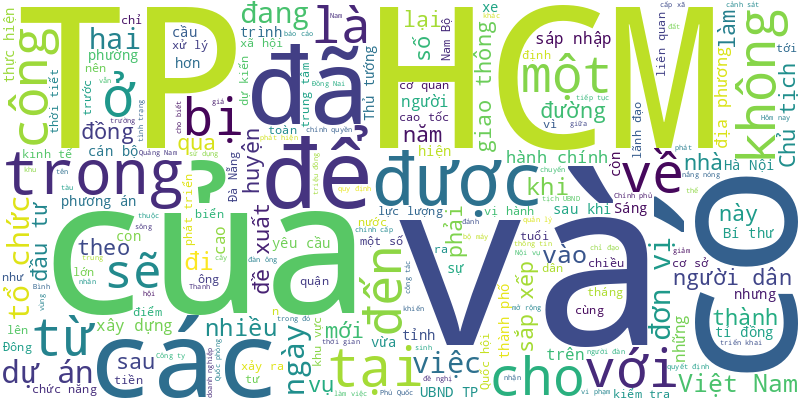
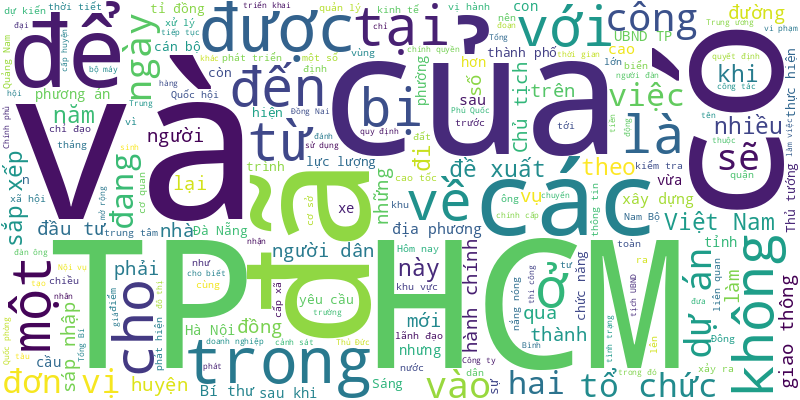
🍀 = 80%

diff --git a/README.md b/README.md
@@ -1,6 +1,18 @@
 # Tuoi Tre RSS 
 
 ## Giáo dục 
+- Theo kế hoạch tuyển sinh đầu cấp năm học 2025-2026 của TP.HCM, yếu tố quan trọng nhất là nơi ở hiện tại.
+- Sáng 30-3, Ủy ban nhân dân TP.HCM đã ban hành kế hoạch tuyển sinh lớp 10 năm học 2025-2026.
+- Sáng nay 30-3, Ngày hội Tự tin vào lớp 10 do ấn phẩm Mực Tím (báo Tuổi Trẻ) tổ chức đang diễn ra tại 2 địa chỉ: THPT Hùng Vương (Q.5) và THPT Võ Trường Toản (Q.12).
+- Sáng nay 30-3, Ngày hội Tự tin vào lớp 10 năm 2025 ở TP.HCM được tổ chức đồng thời từ 7h đến 11h30 tại Trường THPT Hùng Vương (số 124 Hồng Bàng, quận 5) và Trường THPT Võ Trường Toản (số 482 Nguyễn Thị Đặng, quận 12).
+- Nhóm ngành kinh doanh và quản lý liên tục giữ vị trí hàng đầu trong nhiều năm qua về lượng thí sinh trúng tuyển, nhập học đại học.
+- PGS.TS Nguyễn Phong Điền - phó giám đốc Đại học Bách khoa Hà Nội - cho rằng việc quy đổi tương đương điểm giữa các phương thức, tổ hợp không đến nỗi quá rắc rối, khó hiểu như nhiều người đang nghĩ.
+- Ngày hội giáo dục STEM có chủ đề Vui học - sáng tạo cùng AI thu hút sự tham gia của hơn 6.000 học sinh, giáo viên tiểu học, THCS và THPT ở TP.HCM.
+- Viện Bán dẫn và Vật liệu tiên tiến không chỉ tập trung vào nghiên cứu lý thuyết, mà còn xây dựng một hệ sinh thái tích hợp giữa nghiên cứu - ứng dụng - đào tạo.
+- Trường THCS-THPT Trần Đại Nghĩa, TP.HCM dự kiến tuyển 350 học sinh lớp 6 cho năm học 2025-2026.
+- Bộ Giáo dục và Đào tạo yêu cầu các trường đại học sử dụng dữ liệu điểm thi tốt nghiệp THPT, hoặc dữ liệu học bạ THPT làm gốc để xây dựng quy tắc quy đổi điểm xét tuyển năm 2025.
+- Năm nay việc tuyển sinh đầu cấp ở TP.HCM có thay đổi không? Khi nào TP công bố kế hoạch tuyển sinh đầu cấp?
+- Từ ngày 16-7 đến 28-7, thí sinh chính thức đăng ký xét tuyển, điều chỉnh nguyện vọng xét tuyển đại học năm 2025.
 - Bộ Y tế vừa có công văn yêu cầu TP.HCM tích cực điều tra, xử lý vụ nghi ngờ ngộ độc thực phẩm xảy ra tại hệ thống trường Tuệ Đức.
 - Dự kiến Trường THCS-THPT Trần Đại Nghĩa, TP.HCM sẽ tuyển sinh lớp 6 vào tháng 6-2025 thay vì tháng 7 như mọi năm.
 - Suất ăn 20.000 đồng của học sinh Trường phổ thông dân tộc nội trú THCS Mường Lát khá tươm tất, với 4 món thực phẩm và cơm trắng.
@@ -992,25 +1004,48 @@ Trường đại học Văn Lang được QS xếp hạng top 51-100 thế giớ
 - Cả trăm sinh viên đại học, học viên thạc sĩ được Học viện Phụ nữ Việt Nam tuyển sinh, đào tạo tại TP.HCM trong khi chưa được phép của Bộ Giáo dục và Đào tạo.
 - Dự thảo thông tư sửa đổi, bổ sung một số điều của Quy chế tuyển sinh trình độ đại học, tuyển sinh trình độ cao đẳng ngành giáo dục mầm non đang được Bộ GD-ĐT lấy ý kiến.
 - Đồng tác giả người Phillipines tố tác giả chính người Việt Nam 'không viết chữ nào', còn tác giả chính nói mình bị 'vu khống, tống tiền'.
-- Chánh Thanh tra TP.HCM kiến nghị UBND TP.HCM chỉ đạo Trường đại học Y khoa Phạm Ngọc Thạch rà soát, lập danh sách hoàn trả chênh lệch học phí cho sinh viên.
-- Các nhà khoa học Úc lần đầu tiên ghi nhận lợi ích học tập STEM cho trẻ mẫu giáo trong môi trường biển xanh, cát trắng.
-- Năm 2024, Trường đại học Bách khoa (Đại học Quốc gia TP.HCM) 'bội thu' giải thưởng Nữ sinh khoa học công nghệ Việt Nam với 5/20 đại diện thuộc các lĩnh vực khác nhau.
-- Cải thiện tỉ lệ học sinh chọn các môn khoa học tự nhiên trong kỳ thi tốt nghiệp THPT không còn là chuyện của ngành giáo dục, mà là chuyện quốc gia đại sự.
-- Đây là chuyện thường thấy ở trước các cổng trường khi mỗi phụ huynh một kiểu đậu xe chờ đón con, không theo trật tự nào cả.
-- Điều này có thể dẫn tới hậu quả sinh viên bị kỷ luật trong nhà trường, hoặc nghiêm trọng hơn bị cơ quan chức năng xử lý hành chính, thậm chí hình sự.
-- Trong các hệ thống giáo dục, đặc biệt ở Đông Á, "giáo dục vị thi cử" - hay còn gọi là "teaching to the test" - đã trở thành hiện tượng phổ biến.
-- Một em bé nhiều lần nhắc ông không vứt rác bừa bãi. Cuối cùng ông cậu bé lại trở thành người thu gom rác thải tái chế trong nhà, mang tới trường góp cho cô giáo làm giáo cụ cho các bé chơi.
-- Chiều 30-11 đã diễn ra lễ trao học bổng Vì tương lai Việt Nam 2024 cho 40 học sinh nghèo vượt khó, học giỏi của 3 huyện vùng cao Quan Hóa, Quan Sơn, Mường Lát.
-- Chuyên gia nhân sự nhấn mạnh hỏi 'sốc' không nhằm mục đích hạ thấp người ứng tuyển, mà để nhà tuyển dụng xem cách các ứng viên phản ứng như thế nào.
-- Liên quan video lan truyền trên mạng về một nữ sinh bị đánh hội đồng tại Bình Dương, công an đã xác minh danh tính những người liên quan.
-- Trái ngược với đa số các tỉnh thành, ở TP.HCM số học sinh lớp 10 chọn môn học lựa chọn thuộc khối khoa học xã hội rất ít.
 ![Edu](Edu.png)
 ## Thời Sự 
-- Trận động đất 7,7 độ chiều 28-3 khiến người dân Đông Nam Á như Myanmar, Thái Lan, Campuchia, Lào, Việt Nam hoảng hốt. Nhiều người đã thiệt mạng và bị thương.,
+- Các chuyên gia đánh giá nếu Bình Dương, Bà Rịa - Vũng Tàu nhập vào TP.HCM là phương án hợp lý, bổ sung cho nhau các tiêu chí về diện tích, dân số, đồng thời tạo nên một siêu đô thị TP.HCM với nhiều cơ hội tăng tốc phát triển.
+- Trên bờ biển Hà Tĩnh, người dân phát hiện thi thể một người đàn ông. Nạn nhân được xác định là một trong ba ngư dân mất tích trong vụ chìm tàu ở Nghệ An cách đây hơn 10 ngày.
+- 25 cán bộ chiến sĩ và nhân viên y tế, chó nghiệp vụ của Bộ Công an Việt Nam sẽ lên đường sang Myanmar tham gia hỗ trợ khắc phục hậu quả động đất. Đoàn sẽ có mặt vào tối nay 30-3.
+- Tối 29-3, hàng ngàn người dân và du khách đã đổ về quảng trường 29-3 (quận Hải Châu, TP Đà Nẵng) để xem ca nhạc, pháo hoa chào mừng 50 năm Ngày Giải phóng Đà Nẵng (29-3-1975 - 29-3-2025).
+- Việc giữ lại 11 tỉnh thành và sắp xếp 52 tỉnh thành theo đề xuất của Bộ Nội vụ căn cứ theo các tiêu chí mà Bộ Chính trị đã xem xét, thống nhất.
+- Hôm nay 30-3, thời tiết nắng nóng đã giảm bớt, một số khu vực phía Nam có thể xuất hiện mưa rào.
+- Thủ tướng nhấn mạnh các dự án hoàn thành vượt và đúng tiến độ cần được khen thưởng theo quy định.
+- Nói về việc sắp tới Trung ương và Quốc hội sẽ thảo luận về sáp nhập tỉnh, trong đó dự kiến có khả năng Quảng Nam sẽ nhập với Đà Nẵng, Tổng Bí thư cho rằng một Đà Nẵng - Quảng Nam mới phải phát huy tiềm năng và lợi thế vốn có của cả hai địa phương.
+- Theo Phó Tổng tham mưu trưởng, Thượng tướng Huỳnh Chiến Thắng, các lực lượng, đơn vị có thể lên đường hỗ trợ khắc phục hậu quả động đất Myanmar vào ngày mai 30-3.
+- Qua rà soát, các cơ quan quản lý đường bộ phát hiện 586 cụm đèn tín hiệu giao thông và 6.962 biển báo hiệu có bất cập.
+- Một thi thể nam giới trôi vào bờ biển Hà Tĩnh có thông tin giấy tờ tùy thân trùng với ngư dân mất tích trong vụ chìm tàu 10 ngày trước.
+- Chuyến thăm cấp nhà nước của Nhà vua Bỉ và Hoàng hậu vào tuần tới sẽ chứng kiến phái đoàn doanh nghiệp hùng hậu đi cùng, phản ánh kỳ vọng của Bỉ trong việc củng cố và tìm kiếm cơ hội hợp tác.
+- Chè làm ra không bán được, chậm lương người lao động nên Công ty cổ phần chè Biển Hồ quyết định phá hàng trăm hecta chè để chuyển sang trồng cà phê.
+- Tổng Bí thư Tô Lâm khẳng định Đà Nẵng đang đứng trước những vận hội mới khi trung ương có nhiều chủ trương, cơ chế, chính sách ưu đãi vượt trội.
+- Nhiều bạn đọc cho rằng cần tính toán cho Đồng Nai sau sáp nhập có biển để tạo không gian phát triển.
+- Cơ quan khí tượng cho biết có vùng nhiễu động hình thành ngoài nam Biển Đông sẽ vào đất liền và gây mưa cho miền Nam từ ngày mai, nắng nóng cũng giảm.
+- Chiếc ô tô bán tải và chiếc xe máy lưu thông trên quốc lộ 8 bất ngờ xảy ra vụ va chạm khiến 1 người chết, 2 người bị thương.
+- Một cô gái ở Nghệ An phải vứt xe máy bỏ chạy thoát thân khi khối gỗ nặng cả tấn từ trên xe ô tô rớt xuống trưa 29-3.
+- Một số con đường 'cụt' vì vướng mặt bằng gây lãng phí nguồn lực, chẳng những chưa được giải quyết mà còn có xu hướng nghiêm trọng hơn.
+- Công ty Cường Thuận IDICO tiếp tục bị xử phạt vi phạm hành chính về lĩnh vực tài nguyên nước và khoáng sản ở khu du lịch đảo Ó - Đồng Trường.
+- Lực lượng tìm kiếm cứu nạn đã dừng tìm kiếm 3 ngư dân Nghệ An mất tích vụ chìm tàu trên biển, sau nhiều ngày không có kết quả.
+- Theo Tổng Bí thư Tô Lâm, Đà Nẵng đã tạo ra kỳ tích sông Hàn ở Việt Nam trong phát triển kinh tế - xã hội với mô hình 5 cao, gồm tri thức cao, văn hóa cao, thu nhập cao, quản trị cao và mức sống cao.
+- Ban chỉ đạo phòng, chống tham nhũng, lãng phí, tiêu cực tỉnh Đồng Nai vừa yêu cầu tuyệt đối không để xảy ra 'chạy chọt' khi sắp xếp, tinh gọn bộ máy.
+- Sáng 29-3, tại khu vực công viên Sông Hậu, quận Ninh Kiều, TP Cần Thơ, UBND quận Ninh Kiều đã phát động Ngày chạy Olympic vì sức khỏe toàn dân.
+- Bộ Nội vụ đề xuất xã mới sau sáp nhập có diện tích tự nhiên, quy mô dân số đạt từ 300% trở lên tiêu chuẩn của xã quy định tại nghị quyết của Ủy ban Thường vụ Quốc hội.
+- Những ngày này, các mũi thi công nâng cấp quốc lộ 4B với tổng đầu tư gần 2.300 tỉ đồng tại Lạng Sơn đang được các nhà thầu đẩy nhanh tiến độ, đảm bảo thông xe kỹ thuật trước 30-9.
+- Sáng 29-3, TP.HCM tổ chức lễ khởi công cầu đi bộ bắc qua sông Sài Gòn, kết nối bến Bạch Đằng (quận 1) với khu đô thị Thủ Thiêm (TP Thủ Đức).
+- Chiếc xe 16 chỗ ở Nghệ An chở nhóm học sinh, thầy cô đi cổ vũ một cuộc thi thì bị xe tải tông trên cao tốc Diễn Châu - Bãi Vọt, làm hai cô giáo bị gãy chân.
+- Cả nước đang có 10.035 đơn vị cấp xã và dự kiến giảm khoảng 60 - 70% (còn khoảng 3.000 đơn vị cấp xã), đồng thời sẽ giảm 696 đơn vị cấp huyện.
+- Trong nhiều dấu ấn của Đà Nẵng đến nay chính là sự lột xác mạnh mẽ về diện mạo đô thị, đặc biệt là hình ảnh những cây cầu.
+- Chị Lưu Thị Xuân Nữ Khải Hoàn (ở quận 7, TP.HCM) chia sẻ rất xúc động khi một trong năm con rùa quý hiếm gia đình chị giao cho kiểm lâm bò ra khỏi nhà và được nhiều người nhiệt tình giúp tìm kiếm.
+- Đơn vị thi công tuyến đường ở TP Vinh di dời cây xanh xuyên đêm, sau phản ánh hàng trăm cây xanh dù đã được cắt, đào gốc bị 'bỏ mặc' cả tháng trời.
+- Sáng 29-3, Tổng Bí thư Tô Lâm cùng đoàn công tác Trung ương và thành phố Đà Nẵng đã dâng hoa, dâng hương, tưởng niệm các Anh hùng liệt sĩ tại Đài tưởng niệm thành phố Đà Nẵng.
+- Tại đồ án điều chỉnh tổng thể quy hoạch chung thành phố Đà Lạt và vùng phụ cận đến năm 2045, Đà Lạt được định hướng phát triển thành 2 vùng với nhiều đô thị vệ tinh.
+- AHT - Đơn vị quản lý và vận hành nhà ga quốc tế (T2), sân bay quốc tế Đà Nẵng - đang từng bước hiện thực hóa mô hình nhà ga thông minh nhằm nâng cao trải nghiệm hành khách, tối ưu hóa quy trình làm thủ tục và nâng cao hiệu quả quản lý vận hành.
+- Trận động đất 7,7 độ chiều 28-3 khiến người dân Đông Nam Á như Myanmar, Thái Lan, Campuchia, Lào, Việt Nam hoảng hốt. Nhiều người đã thiệt mạng và bị thương.
 - Bàn về phương án khi sáp nhập, bạn đọc đề xuất linh hoạt điều chỉnh địa giới điều chỉnh một số huyện như Nhơn Trạch, Long Thành của Đồng Nai về TP.HCM; đưa Phú Giáo, Bắc Tân Uyên (Bình Dương) về Đồng Nai.
 - Sau ngày 30-3, nếu các cơ sở nhà trọ, nhà ở kết hợp kinh doanh không khắc phục các vi phạm phòng cháy chữa cháy sẽ bị tạm đình chỉ, ngừng hoạt động.
 - Chiều 28-3, nhiều người làm việc tại các tòa nhà cao tầng ở TP.HCM, đặc biệt là khu vực trung tâm, hoảng hốt chạy xuống đất và túa ra đường khi cảm nhận tòa nhà rung lắc.
-- Hà Nội phê duyệt giá bán nước sạch sinh hoạt của Công ty cổ phần Đầu tư nước sạch Sông Đà năm 2025 là 7.767 đồng/m³.
+- Hà Nội phê duyệt giá bán nước sạch sinh hoạt của Công ty cổ phần Đầu tư nước sạch Sông Đà năm 2025 là 7.767 đồng/m³ (chưa bao gồm thuế GTGT).
 - Là người Việt, vào những ngày này ai chẳng ít nhiều tâm tư và bàn luận về những địa danh. Nhiều người mong muốn giữ tên gọi gần gũi hơn là chấp nhận ngay một cái tên khác.
 - Tin tức đáng chú ý: Tạm dừng lưu thông 2 lô phụ gia thực phẩm hương cà phê và hương bơ; Giá rao bán bất động sản tăng mạnh nhưng lượng quan tâm giảm ở một số nơi; Trình UNESCO đưa 'Võ cổ truyền Bình Định' vào danh sách di sản văn hóa phi vật thể...
 - Hôm nay 29-3, thời tiết các tỉnh Bắc Bộ mưa rét do không khí lạnh, Nam Bộ nắng nóng.
@@ -1971,43 +2006,9 @@ Trường đại học Văn Lang được QS xếp hạng top 51-100 thế giớ
 - Liên quan bài viết Tuổi Trẻ Online phản ánh, lãnh đạo UBND TP Nha Trang vừa phản hồi các đơn vị liên quan đã chi trả tiền trợ cấp xã hội cho người dân có hoàn cảnh khó khăn được bảo trợ xã hội ở 22 xã, phường.
 - Bộ Chính trị yêu cầu tạm dừng tuyển dụng, bổ nhiệm, giới thiệu cán bộ ứng cử đảm nhiệm các chức danh lãnh đạo, quản lý từ ngày 7-3 tới khi hoàn thành thực hiện đề án bỏ cấp huyện, sáp nhập một số tỉnh, tổ chức lại cấp xã.
 - Trong dự thảo Luật Dân số, Bộ Y tế đề xuất không kỷ luật đảng viên sinh con thứ 3 trở lên và hàng loạt chính sách khác. Hiện Bộ Y tế đang tiếp tục đề xuất tăng thời gian nghỉ thai sản cho phụ nữ sinh con thứ 2.
-- Chiều 10-3, lễ đón chính thức Tổng Bí thư Tô Lâm thăm cấp nhà nước Indonesia diễn ra trọng thể, với màn bắn 21 phát đại bác chào mừng.
-- Sở Giao thông công chánh TP.HCM đề nghị các đơn vị liên quan báo cáo kết quả rà soát các bất cập về tổ chức giao thông trước ngày 12-3.
-- Thứ trưởng Bộ Tài chính Cao Anh Tuấn đồng tình việc đưa thuế thu nhập doanh nghiệp với báo chí về một mức 10%, và sẽ cùng Ủy ban Kinh tế - Tài chính tiếp thu.
-- Chủ tịch UBND TP Hà Nội ban hành chỉ thị về việc cá thể hóa trách nhiệm người đứng đầu, cán bộ, công chức, viên chức trong các cơ quan, đơn vị.
-- Phó thủ tướng Trần Hồng Hà yêu cầu Bộ Xây dựng xem xét đề xuất phương án đầu tư tuyến đường cao tốc Cà Mau - Đất Mũi theo đề xuất của UBND tỉnh Cà Mau.
-- Từ nay đến cuối năm phải hoàn thành hơn 101.000 căn, tức bình quân cả nước phải xóa 459 căn nhà tạm, nhà dột nát mỗi ngày, mỗi địa phương phải xóa 8 căn một ngày.
-- Tuyến metro số 1 vừa được khánh thành ngày 9-3, là một trong những công trình đầu tiên được cắm biển công trình cấp thành phố chào mừng kỷ niệm 50 năm Ngày Giải phóng miền Nam, thống nhất đất nước.
-- Độ mặn đo được tại khu vực TP Mỹ Tho, Tiền Giang là 1,75 phần ngàn và càng đi về thượng nguồn sông Tiền, độ mặn càng giảm nhưng vẫn đe dọa đến vườn cây ăn trái của người dân.
-- Nhiều bạn đọc chỉ ra trường hợp ngang nhiên xem vỉa hè trước cửa nhà người khác như nhà mình, thậm chí cho xe đậu chắn trước cửa.
-- Các xe vi phạm được hệ thống camera phạt nguội phát hiện ở tất cả khung giờ trong ngày, bao gồm cả lúc nửa đêm, rạng sáng.
-- Bò tót lai đang nuôi nhốt trong môi trường bán tự nhiên ở Vườn quốc gia Phước Bình (Ninh Thuận) đã 'trốn trại' về làng, và giao phối với bò nhà của người dân.
-- Nghi thất thoát sữa nên nhóm 'bà chủ' liên tục đe dọa 2 nữ nhân viên, uy hiếp tinh thần nhằm chiếm đoạt 587 triệu đồng... Cả nhóm phải lãnh án về tội cưỡng đoạt tài sản.
-- Đường Suối Cái - Rạch Vẹm ở xã Gành Dầu (TP Phú Quốc, Kiên Giang) hiện đã chính thức hoàn thành và đưa vào sử dụng đã tạo ra cú hích mạnh mẽ thu hút du khách đến với Rạch Vẹm, nơi được mệnh danh vương quốc sao biển.
-- Với sự hỗ trợ của Bệnh viện Chợ Rẫy, Bệnh viện Xuyên Á TP.HCM đã ghép thận thành công cho cô gái trẻ bị suy thận giai đoạn cuối từ quả thận của người cha 53 tuổi hiến tặng.
-- Cho rằng xăng, điều hòa nhiệt độ là mặt hàng thiết yếu, bà Lê Thị Nga đề nghị bỏ quy định đánh thuế tiêu thụ đặc biệt với hai mặt hàng này.
-- Theo xác minh ban đầu, hai học sinh có triệu chứng của sốt phát ban và bệnh đường hô hấp đang lây lan tại nhiều xã của huyện Nam Trà My.
-- Ủy ban Kiểm tra Tỉnh ủy Bình Phước thi hành kỷ luật bằng hình thức khiển trách đối với nguyên cục trưởng Cục Thuế tỉnh Bình Phước Trần Văn Hướng.
-- Thấy số dư trong tài khoản tăng thêm 450 triệu đồng, anh Quang vội tìm đến trụ sở công an xã trình báo để tìm người chuyển nhầm trả lại.
-- Sau hơn 2 tháng vận hành, metro số 1 đã đón hơn 5,3 triệu lượt khách, vượt dự báo ban đầu. 17 tuyến buýt điện kết nối với metro cũng ghi nhận hơn 700.000 lượt khách.
-- Hàng loạt tồn tại về quản lý chất lượng công trình, tiến độ thi công, an toàn lao động, môi trường… ở dự án thành phần 2 cao tốc Biên Hòa - Vũng Tàu.
-- Chuyến thăm của Tổng Bí thư Tô Lâm ngày 10-3 đánh dấu lần đầu tiên một người đứng đầu Đảng Cộng sản Việt Nam đến trụ sở ASEAN ở Jakarta, Indonesia.
-- Dù có hàng ngàn bể chứa trên các cánh đồng Đắk Lắk, Đắk Nông, rác thải thuốc bảo vệ thực vật vẫn bị vứt bừa bãi, gây ô nhiễm nghiêm trọng.
-- Đại diện UBND phường Phạm Ngũ Lão (quận 1, TP.HCM) cho biết sẽ tăng cường kiểm tra, xử lý tình trạng xe khách dừng đậu bát nháo trên đường Phạm Ngũ Lão.
-- Bệnh viện Chợ Rẫy và Bệnh viện Từ Dũ vừa phối hợp cứu thành công sản phụ bị rối loạn nhịp tim nặng, cơ hội sống chỉ còn 50%.
-- Ông Dương Thanh Bình đề nghị Bộ Giáo dục và Đào tạo kiểm tra, đánh giá việc triển khai thực hiện quy định về dạy thêm, học thêm để điều chỉnh nếu chưa phù hợp.
-- Chủ nhiệm Ủy ban Công tác đại biểu Nguyễn Thanh Hải nêu với nhà ở san sát, 'phố đường tàu' kinh doanh rất nhộn nhịp ở Hà Nội có cần dành tiền di dời không?
-- 'Người mẹ' đăng tin con trai bị bắt cóc, nhờ mọi người chia sẻ để tìm con. Nhưng bài đăng sau đó bị sửa thành kêu gọi từ thiện kèm số tài khoản.
-- Lửa bốc cháy ngùn ngụt sau cú va chạm mạnh giữa 2 xe máy. Hai nạn nhân bị thương tích nặng và tử vong sau đó.
-- Công an tỉnh Quảng Nam đang làm các thủ tục bàn giao vụ án chồng giết vợ, cắt thi thể thả xuống biển cho Công an TP Đà Nẵng.
-- Làm việc với các tỉnh Hà Tĩnh, Quảng Bình và Quảng Trị, Phó thủ tướng Nguyễn Chí Dũng yêu cầu các địa phương, nhà thầu đeo bám công trường, nỗ lực cao để ngày 30-6 thông tuyến cao tốc Bắc - Nam từ Hà Tĩnh đến Quảng Trị.
-- Thời tiết Hà Nội sáng nay 10-3 sương mù dày đặc kèm mưa phùn, gây hạn chế tầm nhìn của người dân khi đi ra ngoài đường.
-- Các vướng mắc về mặt bằng, đất đắp đang cản trở tiến độ về đích của cao tốc Biên Hòa - Vũng Tàu đoạn qua Đồng Nai.
-- Công an Đà Nẵng vừa phát lệnh truy nã đặc biệt một nghi phạm liên quan đến đường dây lừa đảo chiếm đoạt tài sản do TikToker Mr. Pips - Phó Đức Nam và đồng phạm thực hiện.
-- Một chiếc thuyền của ngư dân Hà Tĩnh ra khơi trúng đậm mẻ cá trích gần 1,5 tấn. Khi đang quay trở về thì chiếc thuyền bị lật nghiêng nên được nhiều người dân ứng cứu đưa vào bờ.
-- Trong lúc nhậu đám giỗ ở Củ Chi (TP.HCM), người đàn ông rủ chủ nhà ra tắm kênh, không may cả hai chết đuối.
 ![New](News.png)
 ## Nhịp sống số 
+- Văn phòng An ninh quốc gia của tổng thống Hàn Quốc vừa thành lập một nhóm tư vấn nhằm điều phối các biện pháp ứng phó trước những mối đe dọa an ninh do trí tuệ nhân tạo (AI) gây ra.
 - RedNote (Tiểu hồng thư) bị cáo buộc thu thập dữ liệu người dùng vượt mức cần thiết, khiến nhiều người dùng lo ngại bị xâm phạm quyền riêng tư và mất an toàn thông tin cá nhân.
 - Zenbook S16 là mẫu laptop AI sở hữu thiết kế mỏng nhẹ, màn hình Lumina OLED kích thước lớn và thời lượng pin lâu.
 - 253 tài năng trẻ thiết kế đồ họa trong cả nước đang tranh tài giành tấm vé ở Cuộc thi Vô địch thiết kế đồ họa thế giới (ACP) 2025.
@@ -3006,5 +3007,4 @@ Trường đại học Văn Lang được QS xếp hạng top 51-100 thế giớ
 - TTO - Mạng xã hội Facebook vừa đăng thông tin tuyển dụng “các chuyên gia thẩm định độ tin cậy của tin tức”, động thái cho thấy công ty này đang có thêm những nỗ lực trong cuộc chiến chống tin giả.
 - TTO - Tập đoàn Microsoft vừa đặt thành công một trung tâm dữ liệu mới nhất của họ dưới đáy biển ở ngoài khơi Scotland với hy vọng sẽ sớm có thêm những trung tâm tương tự trong tương lai.
 - TTO - Sáng ngày 9-6-2018, Tập đoàn Công nghiệp - Viễn thông Quân đội (Viettel) chính thức khai trương mạng di động quốc tế thứ 10 tại Myanmar với thương hiệu Mytel.
-- TTO - Mỹ lại vừa vượt qua Trung Quốc, giành lại ngôi số một trong cuộc đua chế tạo siêu máy tính nhanh nhất thế giới.
 ![life](Life.png)
